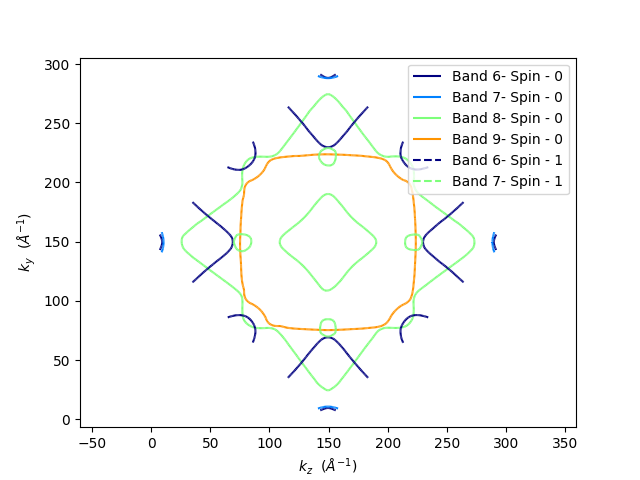
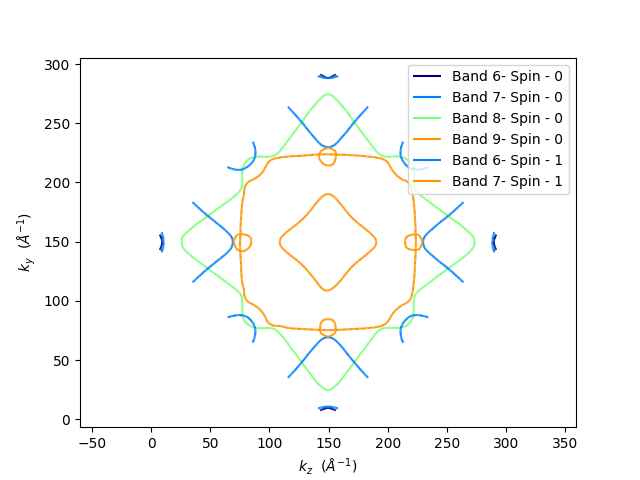
Added option to specify band colors in fermi 2d

diff --git a/pyprocar/core/fermisurface.py b/pyprocar/core/fermisurface.py
@@ -34,10 +34,13 @@ class FermiSurface:
             The cmap to use. default = 'jet
         band_indices : List[List]
             A list of list that contains band indices for a given spin
+        band_colors : List[List]
+            A list of list that contains colors for the band index 
+            corresponding the band_indices for a given spin
         loglevel : _type_, optional
             The verbosity level., by default logging.WARNING
     """
-    def __init__(self, kpoints, bands, spd, band_indices:List[List]=None, cmap='jet', loglevel=logging.WARNING):
+    def __init__(self, kpoints, bands, spd, band_indices:List[List]=None, band_colors:List[List]=None, cmap='jet', loglevel=logging.WARNING):
         
         
         # Since some time ago Kpoints are in cartesian coords (ready to use)
@@ -45,6 +48,7 @@ class FermiSurface:
         self.bands = bands
         self.spd = spd
         self.band_indices = band_indices
+        self.band_colors = band_colors
         self.cmap = cmap
         self.useful = None  # List of useful bands (filled in findEnergy)
         self.energy = None
@@ -195,7 +199,11 @@ class FermiSurface:
             n_bands = bands.shape[0]
             norm = mpcolors.Normalize(vmin=0, vmax=1)
             cmap = cm.get_cmap(self.cmap)
-            solid_color_surface = np.arange(n_bands) / n_bands
+            if i_spin == 1:
+                factor = 0.25
+            else:
+                factor = 0
+            solid_color_surface = np.arange(n_bands) / n_bands + factor
             band_colors = np.array([cmap(norm(x)) for x in solid_color_surface[:]]).reshape(-1, 4)
             plots = []
             for i_band,band_energies in enumerate(bnew):
@@ -205,10 +213,14 @@ class FermiSurface:
                     segments = np.concatenate([points[:-1], points[1:]], axis=1)
                     if mode=='plain':
                         lc = LineCollection(segments, colors=settings.ebs.color[i_spin], linestyle=settings.ebs.linestyle[i_spin])
+                        lc.set_linestyle(settings.ebs.linestyle[i_spin])
                     if mode=='plain_bands':
-                        c = band_colors[i_band]
-                        lc = LineCollection(segments, colors=c, linestyle=settings.ebs.linestyle[i_spin])
-                        lc.set_array(c)
+                        if self.band_colors is None:
+                            c = band_colors[i_band]
+                        else:
+                            c = self.band_colors[i_spin][i_band]
+                        lc = LineCollection(segments, colors=c)
+                        # lc.set_array(c)
                         if i_contour == 0:
                             if n_spins == 2:
                                 label=f'Band {band_labels[i_band]}- Spin - {i_spin}'
@@ -324,7 +336,7 @@ class FermiSurface:
         ]
         plt.axis("equal")
 
-        for (contour, spinX, spinY, spinZ) in zip(cont, sx, sy, sz):
+        for i_band, (contour, spinX, spinY, spinZ) in enumerate(zip(cont, sx, sy, sz)):
             # The previous interp. yields the level curves, nothing more is
             # useful from there
             paths = contour.collections[0].get_paths()
@@ -362,7 +374,11 @@ class FermiSurface:
                 )
 
             else:
-                if arrow_color is not None:
+                if arrow_color is not None or self.band_colors is not None:
+                    if self.band_colors is not None:
+                        c = self.band_colors[0][i_band]
+                    if arrow_color is not None:
+                        c = arrow_color
                     plt.quiver(
                         points[::arrow_density, 0],  # Arrow position x-component
                         points[::arrow_density, 1],  # Arrow position y-component
@@ -371,7 +387,7 @@ class FermiSurface:
                         scale=scale,
                         scale_units=scale_units,
                         angles=angles,
-                        color=arrow_color
+                        color=c
                     )
                 else:
                     if arrow_projection == 'z':

diff --git a/pyprocar/scripts/scriptFermi2D.py b/pyprocar/scripts/scriptFermi2D.py
@@ -24,7 +24,8 @@ def fermi2D(
     code:str,
     dirname:str,
     mode:str='plain',
-    band_indices:List[int]=None,
+    band_indices:List[List]=None,
+    band_colors:List[List]=None,
     lobster:bool=False,
     spins:List[int]=None,
     atoms:List[int]=None,
@@ -61,6 +62,9 @@ def fermi2D(
         A boolean value to determine to use lobster, by default False
     band_indices : List[List]
         A list of list that contains band indices for a given spin
+    band_colors : List[List]
+            A list of list that contains colors for the band index 
+            corresponding the band_indices for a given spin
     spins : List[int], optional
         List of spins, by default [0]
     atoms : List[int], optional
@@ -227,7 +231,7 @@ def fermi2D(
         symm.general_rotation(rotation[0], rotation[1:])
         # symm.MirrorX()
         symm.rot_symmetry_z(rot_symm)
-    fs = FermiSurface(symm.kpoints, symm.bands, symm.character, cmap = cmap,  band_indices=band_indices)
+    fs = FermiSurface(symm.kpoints, symm.bands, symm.character, cmap = cmap,  band_indices=band_indices, band_colors=band_colors)
     fs.find_energy(energy)
 
     if not spin_texture:

diff --git a/examples/03-fermi2d/plotting_fermi2d.py b/examples/03-fermi2d/plotting_fermi2d.py
@@ -81,13 +81,12 @@ pyprocar.fermi2D(code = 'qe',
 #
 # You can specify specfic bands with the band indices keyword. 
 # band_indices will be a list of list that contain band indices to plot for a given spin. Below I only plot bands 6 and 7 for spin 0
-
-atoms=[0]
-orbitals=[4,5,6,7,8]
-spins=[0,1]
-band_indices = [[6,7,],[]]
+# Also you can specify the colors of the bands as well with band_colors
+band_indices = [[6,7],[]]
+band_colors = [['blue','navy'], []]
 pyprocar.fermi2D(code = 'qe', 
                mode='plain_bands',
                band_indices = band_indices,
+               band_colors=band_colors,
                add_legend=True,
                dirname=data_dir)

diff --git a/sphinx/examples/03-fermi2d/plotting_fermi2d.py b/sphinx/examples/03-fermi2d/plotting_fermi2d.py
@@ -81,13 +81,12 @@ pyprocar.fermi2D(code = 'qe',
 #
 # You can specify specfic bands with the band indices keyword. 
 # band_indices will be a list of list that contain band indices to plot for a given spin. Below I only plot bands 6 and 7 for spin 0
-
-atoms=[0]
-orbitals=[4,5,6,7,8]
-spins=[0,1]
-band_indices = [[6,7,],[]]
+# Also you can specify the colors of the bands as well with band_colors
+band_indices = [[6,7],[]]
+band_colors = [['blue','navy'], []]
 pyprocar.fermi2D(code = 'qe', 
                mode='plain_bands',
                band_indices = band_indices,
+               band_colors=band_colors,
                add_legend=True,
                dirname=data_dir)

diff --git a/examples/03-fermi2d/plotting_fermi2d_spin_texture.py b/examples/03-fermi2d/plotting_fermi2d_spin_texture.py
@@ -69,11 +69,14 @@ pyprocar.fermi2D(code = 'qe',
 #
 # You can specify specfic bands with the band indices keyword. 
 # band_indices will be a list of list that contain band indices. Below I only plot bands 14,15
+# Also you can specify the colors of the bands as well with band_colors
 
 band_indices = [[14,15]]
+band_colors = [['blue','red']]
 pyprocar.fermi2D(code = 'qe', 
                mode='plain_bands',
                band_indices = band_indices,
+               band_colors=band_colors,
                spin_texture=True,
                arrow_size =15,
                arrow_density=10,

diff --git a/sphinx/examples/03-fermi2d/plotting_fermi2d_spin_texture.py b/sphinx/examples/03-fermi2d/plotting_fermi2d_spin_texture.py
@@ -69,11 +69,14 @@ pyprocar.fermi2D(code = 'qe',
 #
 # You can specify specfic bands with the band indices keyword. 
 # band_indices will be a list of list that contain band indices. Below I only plot bands 14,15
+# Also you can specify the colors of the bands as well with band_colors
 
 band_indices = [[14,15]]
+band_colors = [['blue','red']]
 pyprocar.fermi2D(code = 'qe', 
                mode='plain_bands',
                band_indices = band_indices,
+               band_colors=band_colors,
                spin_texture=True,
                arrow_size =15,
                arrow_density=10,

diff --git a/sphinx/examples/03-fermi2d/plotting_fermi2d.rst b/sphinx/examples/03-fermi2d/plotting_fermi2d.rst
@@ -302,26 +302,25 @@ Does not work. Contact developers
 
 
 
-.. GENERATED FROM PYTHON SOURCE LINES 79-84
+.. GENERATED FROM PYTHON SOURCE LINES 79-85
 
 Selecting band indices
 +++++++++++++++++++++++++++++++++++++++
 
 You can specify specfic bands with the band indices keyword. 
 band_indices will be a list of list that contain band indices to plot for a given spin. Below I only plot bands 6 and 7 for spin 0
+Also you can specify the colors of the bands as well with band_colors
 
-.. GENERATED FROM PYTHON SOURCE LINES 84-93
+.. GENERATED FROM PYTHON SOURCE LINES 85-92
 
 .. code-block:: default
 
-
-    atoms=[0]
-    orbitals=[4,5,6,7,8]
-    spins=[0,1]
-    band_indices = [[6,7,],[]]
+    band_indices = [[6,7],[]]
+    band_colors = [['blue','navy'], []]
     pyprocar.fermi2D(code = 'qe', 
                    mode='plain_bands',
                    band_indices = band_indices,
+                   band_colors=band_colors,
                    add_legend=True,
                    dirname=data_dir)
 
@@ -386,7 +385,7 @@ band_indices will be a list of list that contain band indices to plot for a give
 
 .. rst-class:: sphx-glr-timing
 
-   **Total running time of the script:** ( 0 minutes  34.683 seconds)
+   **Total running time of the script:** ( 0 minutes  32.985 seconds)
 
 
 .. _sphx_glr_download_examples_03-fermi2d_plotting_fermi2d.py:

diff --git a/sphinx/examples/03-fermi2d/plotting_fermi2d_spin_texture.rst b/sphinx/examples/03-fermi2d/plotting_fermi2d_spin_texture.rst
@@ -222,23 +222,26 @@ Spin Texture single color
 
 
 
-.. GENERATED FROM PYTHON SOURCE LINES 67-72
+.. GENERATED FROM PYTHON SOURCE LINES 67-73
 
 Selecting band indices
 +++++++++++++++++++++++++++++++++++++++
 
 You can specify specfic bands with the band indices keyword. 
 band_indices will be a list of list that contain band indices. Below I only plot bands 14,15
+Also you can specify the colors of the bands as well with band_colors
 
-.. GENERATED FROM PYTHON SOURCE LINES 72-80
+.. GENERATED FROM PYTHON SOURCE LINES 73-83
 
 .. code-block:: default
 
 
     band_indices = [[14,15]]
+    band_colors = [['blue','red']]
     pyprocar.fermi2D(code = 'qe', 
                    mode='plain_bands',
                    band_indices = band_indices,
+                   band_colors=band_colors,
                    spin_texture=True,
                    arrow_size =15,
                    arrow_density=10,
@@ -304,7 +307,7 @@ band_indices will be a list of list that contain band indices. Below I only plot
 
 .. rst-class:: sphx-glr-timing
 
-   **Total running time of the script:** ( 0 minutes  14.443 seconds)
+   **Total running time of the script:** ( 0 minutes  15.916 seconds)
 
 
 .. _sphx_glr_download_examples_03-fermi2d_plotting_fermi2d_spin_texture.py:

diff --git a/sphinx/examples/03-fermi2d/sg_execution_times.rst b/sphinx/examples/03-fermi2d/sg_execution_times.rst
@@ -5,10 +5,10 @@
 
 Computation times
 =================
-**00:49.126** total execution time for **examples_03-fermi2d** files:
+**00:15.916** total execution time for **examples_03-fermi2d** files:
 
 +-------------------------------------------------------------------------------------------------------------+-----------+--------+
-| :ref:`sphx_glr_examples_03-fermi2d_plotting_fermi2d.py` (``plotting_fermi2d.py``)                           | 00:34.683 | 0.0 MB |
+| :ref:`sphx_glr_examples_03-fermi2d_plotting_fermi2d_spin_texture.py` (``plotting_fermi2d_spin_texture.py``) | 00:15.916 | 0.0 MB |
 +-------------------------------------------------------------------------------------------------------------+-----------+--------+
-| :ref:`sphx_glr_examples_03-fermi2d_plotting_fermi2d_spin_texture.py` (``plotting_fermi2d_spin_texture.py``) | 00:14.443 | 0.0 MB |
+| :ref:`sphx_glr_examples_03-fermi2d_plotting_fermi2d.py` (``plotting_fermi2d.py``)                           | 00:00.000 | 0.0 MB |
 +-------------------------------------------------------------------------------------------------------------+-----------+--------+
